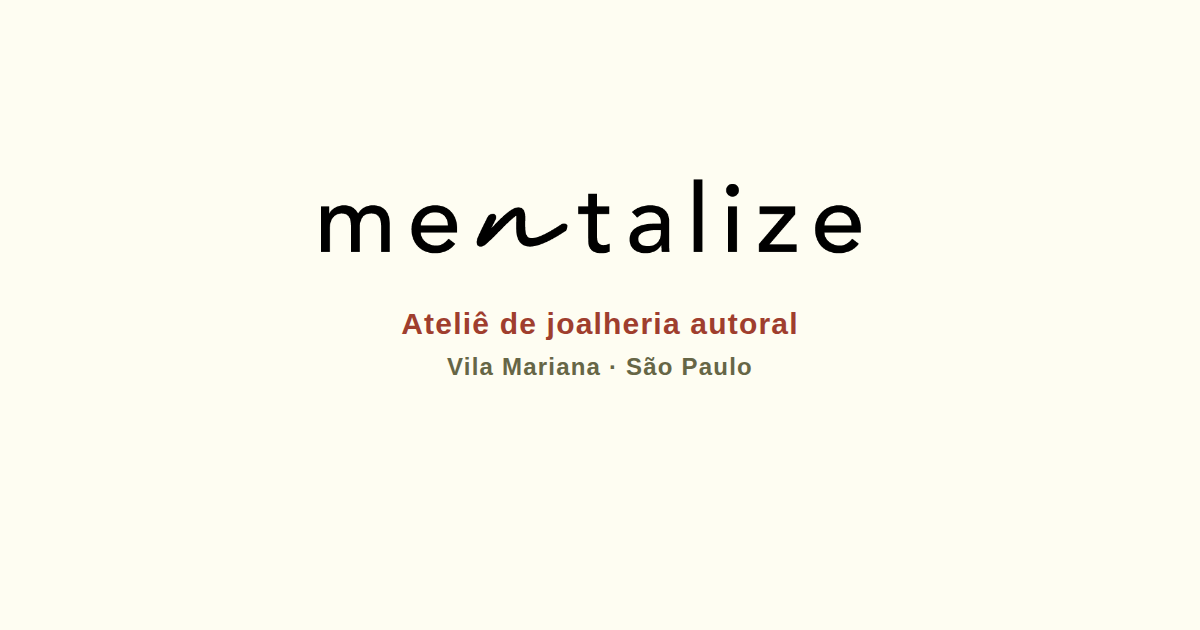
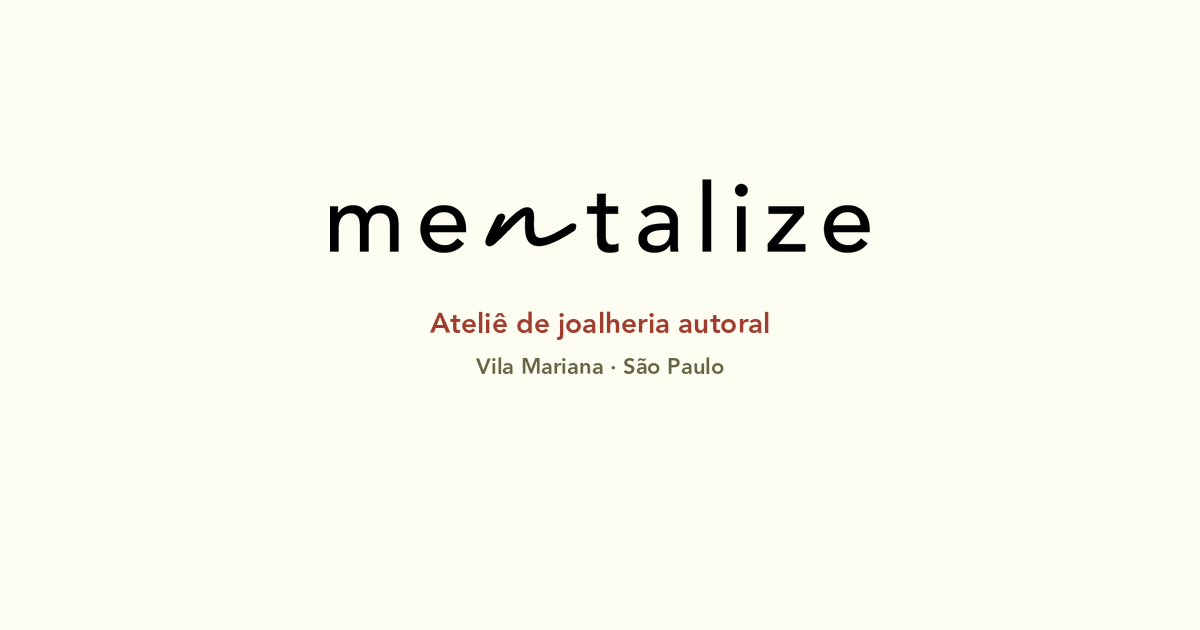
Enxugar as ofertas da Home e refazer a capa de compartilhamento
Home: saem os cards "Pacotes de Aula" (📅, R$ 337) e "Workshop de Sábado"
(🔨, R$ 407) — eram exatamente os dois que duplicavam ícone e destino dos
cards novos. Ficam 5 ofertas, sem repetição de ícone nem de destino. O R$ 337
segue aparecendo no Gift Card, então a Home continua coerente com a página de
Cursos.

Com 5 cards, a grade auto-fit abria em 4 colunas a partir de ~1024px e deixava
o quinto sozinho na segunda linha. Fixadas 3 colunas no desktop: resolve em
3+2 e os cards ficam mais largos. Conferido de 360px a 1600px. Abaixo de 60rem
o auto-fit já se resolvia bem (3+2 perto de 768px, um por linha no celular).

Capa og: as duas linhas de texto de assets/og-capa-negocio.png estavam numa
sans-serif genérica — a fonte da marca não carregou quando ela foi gerada. Como
a Avenir agora é auto-hospedada, tools/gerar-capa-og.py refaz a imagem
descomprimindo o woff2 para ttf em memória e desenhando com PIL, sem depender
de um navegador resolver fonte. Mesma geometria de antes, com uma correção: o
wordmark agora é centralizado pela tinta, não pela caixa do PNG, que tem
margens assimétricas e o deixava ~10px à esquerda.

Comparação por pixel contra controles: a capa nova casa com Avenir Heavy
(diferença de largura de 0,6% e de tinta de 0,091), contra 0,24+ de todas as
genéricas testadas. Na capa antiga a Avenir era o pior ajuste dos quatro.

README: o preço da Aula Dupla e a licença da Avenir saem das pendências e
[…]

Changed region(s): [[0.2467, 0.2714, 0.74, 0.4222], [0.3392, 0.4825, 0.6783, 0.6032]]

diff --git a/index.html b/index.html
@@ -148,18 +148,6 @@
           <p>Passe a manhã de um sábado criando com as próprias mãos e transforme sua ideia em um anel exclusivo. Das 10h30 às 13h, ao redor da nossa mesa compartilhada e sem precisar de experiência. Anel em prata incluso.</p>
           <span class="preco-mini">A partir de R$&nbsp;407</span>
         </a>
-        <a class="card-servico" href="./presente.html#workshop-coletivo">
-          <span class="card-servico-icone" aria-hidden="true">🔨</span>
-          <h3>Workshop de Sábado</h3>
-          <p>Turma única, sem compromisso de continuidade. Ideal pra experimentar a modelagem em cera pela primeira vez.</p>
-          <span class="preco-mini">A partir de R$&nbsp;407</span>
-        </a>
-        <a class="card-servico" href="./cursos.html">
-          <span class="card-servico-icone" aria-hidden="true">📅</span>
-          <h3>Pacotes de Aula</h3>
-          <p>Aulas semanais em turma pequena, do zero ao seu projeto autoral. Quanto mais aulas, menor o valor por aula.</p>
-          <span class="preco-mini">A partir de R$&nbsp;337</span>
-        </a>
         <a class="card-servico" href="./aliancas.html">
           <span class="card-servico-icone" aria-hidden="true">💍</span>
           <h3>Alianças para Casais</h3>

diff --git a/css/negocio.css b/css/negocio.css
@@ -26,6 +26,16 @@ main > section > .lide {
   margin-top: 1.5rem;
 }
 
+/* São 5 ofertas. No auto-fit, a partir de ~1024px a grade abre em 4 colunas e
+   a quinta fica sozinha na segunda linha. Fixar 3 colunas no desktop resolve
+   em 3+2 e ainda dá cards mais largos. Abaixo daqui o auto-fit já se resolve
+   bem sozinho (3+2 perto de 768px, um por linha no celular). */
+@media (min-width: 60rem) {
+  .grade-servicos {
+    grid-template-columns: repeat(3, 1fr);
+  }
+}
+
 .card-servico {
   background: var(--cor-superficie);
   border: 1px solid var(--cor-borda);

diff --git a/tools/gerar-capa-og.py b/tools/gerar-capa-og.py
@@ -1,0 +1,137 @@
+#!/usr/bin/env python3
+"""
+gerar-capa-og.py — gera assets/og-capa-negocio.png, a imagem que aparece quando
+o site é compartilhado (WhatsApp, Instagram, Facebook, Twitter).
+
+Por que existe: a capa anterior tinha o wordmark certo, mas as duas linhas de
+texto saíram numa sans-serif genérica — a fonte da marca não carregava no
+momento em que ela foi gerada. Agora que a Avenir é auto-hospedada no
+repositório, o texto é desenhado com ela.
+
+Como: o woff2 do repositório é descomprimido para ttf em memória com fontTools e
+desenhado com PIL.ImageFont. Determinístico, sem depender de um navegador
+resolver fonte — o mesmo princípio de tools/gerar-icones.py.
+
+A geometria reproduz a capa anterior (posições verticais e a largura do
+wordmark), com uma correção: o wordmark agora é centralizado pela TINTA, não
+pela caixa do PNG. O arquivo do logotipo tem margens assimétricas (51px à
+esquerda, 80px à direita), então centralizar a caixa deixava a palavra ~10px à
+esquerda do centro.
+
+Uso:
+    pip install fonttools brotli pillow
+    python3 tools/gerar-capa-og.py
+"""
+
+import io
+import pathlib
+
+from PIL import Image, ImageDraw, ImageFont
+from fontTools.ttLib import TTFont
+
+RAIZ = pathlib.Path(__file__).resolve().parent.parent
+
+LARGURA, ALTURA = 1200, 630          # proporção exigida por og:image
+CREME = "#fefdf2"
+TERRACOTA = "#9f3e2e"
+OLIVA = "#666646"
+
+LOGO = RAIZ / "assets/logo-preto.png"
+FONTE_TITULO = RAIZ / "assets/fontes/avenir-heavy.woff2"
+
+LARGURA_WORDMARK = 540               # largura da tinta do wordmark
+TOPO_WORDMARK = 179
+
+LINHAS = [
+    # (texto, cor, topo da tinta, altura da tinta) — medidos da capa anterior,
+    # para o resultado ficar na mesma escala e só a fonte mudar.
+    ("Ateliê de joalheria autoral", TERRACOTA, 311, 29),
+    ("Vila Mariana · São Paulo", OLIVA, 357, 18),
+]
+
+
+def carregar_fonte(caminho_woff2):
+    """Descomprime o woff2 para ttf em memória e devolve os bytes."""
+    fonte = TTFont(caminho_woff2)
+    fonte.flavor = None
+    buffer = io.BytesIO()
+    fonte.save(buffer)
+    return buffer.getvalue()
+
+
+def caixa_da_tinta(imagem, fundo, tolerancia=18):
+    """Bounding box do que difere do fundo. Usado para medir e para centralizar."""
+    px = imagem.convert("RGB").load()
+    largura, altura = imagem.size
+    xs, ys = [], []
+    for y in range(altura):
+        for x in range(largura):
+            if any(abs(a - b) > tolerancia for a, b in zip(px[x, y], fundo)):
+                xs.append(x)
+                ys.append(y)
+    if not xs:
+        return None
+    return min(xs), min(ys), max(xs), max(ys)
+
+
+def tamanho_para_altura(bytes_fonte, texto, altura_alvo):
+    """Acha, por busca binária, o tamanho em que a tinta do texto tem a altura pedida."""
+    def altura_em(tamanho):
+        fonte = ImageFont.truetype(io.BytesIO(bytes_fonte), tamanho)
+        x0, y0, x1, y1 = fonte.getbbox(texto)
+        return y1 - y0
+
+    baixo, alto = 4, 200
+    while alto - baixo > 1:
+        meio = (baixo + alto) // 2
+        if altura_em(meio) < altura_alvo:
+            baixo = meio
+        else:
+            alto = meio
+    # devolve o que fica mais perto do alvo
+    return min((baixo, alto), key=lambda t: abs(altura_em(t) - altura_alvo))
+
+
+def main():
+    fundo_rgb = Image.new("RGB", (1, 1), CREME).getpixel((0, 0))
+    capa = Image.new("RGB", (LARGURA, ALTURA), CREME)
+
+    # --- wordmark, centralizado pela tinta ---
+    logo = Image.open(LOGO).convert("RGBA")
+    alfa = logo.getchannel("A")
+    caixa = alfa.getbbox()                      # recorta as margens do PNG
+    logo = logo.crop(caixa)
+    escala = LARGURA_WORDMARK / logo.width
+    logo = logo.resize(
+        (LARGURA_WORDMARK, round(logo.height * escala)), Image.LANCZOS
+    )
+    capa.paste(logo, ((LARGURA - logo.width) // 2, TOPO_WORDMARK), logo)
+
+    # --- as duas linhas de texto, em Avenir ---
+    bytes_fonte = carregar_fonte(FONTE_TITULO)
+    desenho = ImageDraw.Draw(capa)
+    usados = []
+    for texto, cor, topo, altura_tinta in LINHAS:
+        tamanho = tamanho_para_altura(bytes_fonte, texto, altura_tinta)
+        fonte = ImageFont.truetype(io.BytesIO(bytes_fonte), tamanho)
+        x0, y0, x1, y1 = fonte.getbbox(texto)
+        # getbbox devolve a caixa da tinta relativa à origem do desenho, então
+        # descontar x0/y0 alinha a TINTA no ponto pedido, não a caixa da fonte.
+        desenho.text(
+            (round((LARGURA - (x1 - x0)) / 2 - x0), topo - y0),
+            texto, font=fonte, fill=cor,
+        )
+        usados.append((texto, tamanho, x1 - x0, y1 - y0))
+
+    destino = RAIZ / "assets/og-capa-negocio.png"
+    capa.save(destino, optimize=True)
+
+    print(destino.relative_to(RAIZ), f"{LARGURA}x{ALTURA}")
+    print(f"  wordmark: {logo.width}x{logo.height} em y={TOPO_WORDMARK}")
+    for texto, tamanho, largura, altura in usados:
+        print(f'  "{texto}" — Avenir Heavy {tamanho}px, tinta {largura}x{altura}')
+    print("  caixa total da tinta:", caixa_da_tinta(capa, fundo_rgb))
+
+
+if __name__ == "__main__":
+    main()

diff --git a/README.md b/README.md
@@ -72,6 +72,24 @@ Os PNG são quadrados cheios, sem transparência e sem canto arredondado —
 a mesma convenção dos ícones anteriores; só o `favicon.svg` arredonda. Ao
 regerar, suba a `VERSAO` em `sw.js`: os quatro arquivos estão no `PRECACHE`.
 
+### Capa de compartilhamento (og:image)
+
+`assets/og-capa-negocio.png` (1200×630) é a imagem que aparece ao compartilhar
+o site no WhatsApp, Instagram e Facebook. Gerada por:
+
+```bash
+python3 tools/gerar-capa-og.py
+```
+
+O script descomprime o `woff2` da Avenir para `ttf` em memória e desenha o texto
+com `PIL.ImageFont` — mesma ideia do gerador de ícones: determinístico, sem
+depender de um navegador resolver fonte. Era exatamente esse o defeito da versão
+anterior, cujas duas linhas de texto saíram numa sans-serif genérica porque a
+fonte da marca não carregou na hora de gerar.
+
+A capa **não** entra no `PRECACHE` de `sw.js`: quem a consome são os crawlers das
+redes sociais, não o site.
+
 ### Fonte Avenir (auto-hospedada)
 
 A Avenir é a fonte da marca e fica **auto-hospedada** em `assets/fontes/`, em
@@ -130,9 +148,11 @@ redeclarar o token.
 > Stories como `.otf` — formatos que normalmente correspondem a licença
 > **desktop**. Auto-hospedar como webfont deixa o arquivo publicamente
 > baixável e costuma exigir uma licença **web** separada. Vale confirmar com o
-> fornecedor antes de manter isso em produção. A Best Stories (Rantau Studio)
-> ao menos declara `fsType = 0` no `OS/2`, ou seja, incorporação instalável
-> sem restrição — o que é um sinal favorável, mas não substitui a licença.
+> fornecedor. **Decidido manter assim** — fica registrado aqui porque a
+> exposição é da cliente, não porque haja ação pendente. A Best Stories
+> (Rantau Studio) ao menos declara `fsType = 0` no `OS/2`, ou seja,
+> incorporação instalável sem restrição — sinal favorável, mas que não
+> substitui a licença.
 
 ## Publicar (GitHub Pages + domínio próprio)
 
@@ -248,23 +268,29 @@ discreto "em breve" já usado para depoimentos. Quando o link existir, dá pra:
 ## Aula Dupla (anel de noivado)
 
 Em `presente.html`, a experiência "Aula Dupla" (recomendada para quem vai criar
-um anel de noivado) está com preço "Sob consulta" — o valor ainda não foi
-definido.
+um anel de noivado) fica com preço **"Sob consulta"** — decidido, não é
+pendência. Aparece em dois lugares na página: no card "Para viver um momento
+especial" e na seção `#noivado`.
 
 ## Pendências de conteúdo
 
 - **Página "Aula Experimental"** — a cliente pediu uma página nova para essa
-  experiência ("PÁGINA NOVA AULA EXPERIMENTAL"), mas o conteúdo ainda não veio.
-  Enquanto isso, o card "Experimente fazer sua primeira joia" na Home aponta
-  para `presente.html#workshop-coletivo`, que descreve o mesmo workshop.
-  Quando o conteúdo chegar: criar a página, incluir no `PAGINAS` de
-  `js/componentes/cabecalho-site.js` e de `sw.js`, no `sitemap.xml`, e trocar o
-  `href` do card.
+  experiência ("PÁGINA NOVA AULA EXPERIMENTAL — BOTÃO: AULA DUPLA E WS AA"),
+  mas o conteúdo ainda não veio. Nessa anotação, **WS = Workshop**; o que "AA"
+  significa segue em aberto. Enquanto isso, o card "Experimente fazer sua
+  primeira joia" na Home aponta para `presente.html#workshop-coletivo`, que
+  descreve o mesmo workshop. Quando o conteúdo chegar: criar a página, incluir
+  no `PAGINAS` de `js/componentes/cabecalho-site.js` e de `sw.js`, no
+  `sitemap.xml`, e trocar o `href` do card.
 - Fotos reais para a galeria, o hero, as alianças, a equipe e as demais
-  páginas (hoje há placeholders "em breve" em todas elas).
+  páginas (hoje há 29 placeholders "em breve").
 - Depoimentos/avaliações reais (ver seção "Avaliações do Google" acima).
-- Preço da Aula Dupla (ver seção acima).
-- Confirmar a licença **web** da Avenir (ver "Fonte Avenir" acima).
+- **Container do Google Tag Manager** — `GTM_CONTAINER_ID` em
+  `js/consentimento.js` segue no valor de exemplo (ver seção "Analytics" acima).
+
+Decisões já fechadas, que **não** são pendência: o preço da Aula Dupla fica
+"Sob consulta", e a licença da Avenir fica como está (ver as duas seções
+adiante).
 
 ## Preços: onde cada número aparece
 
